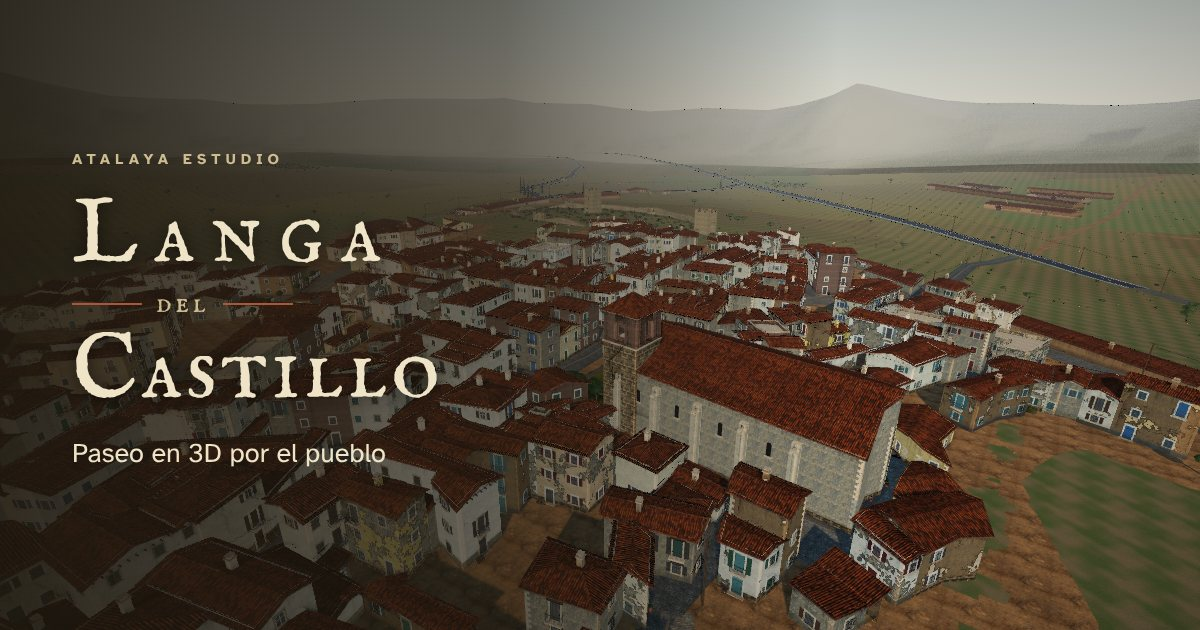
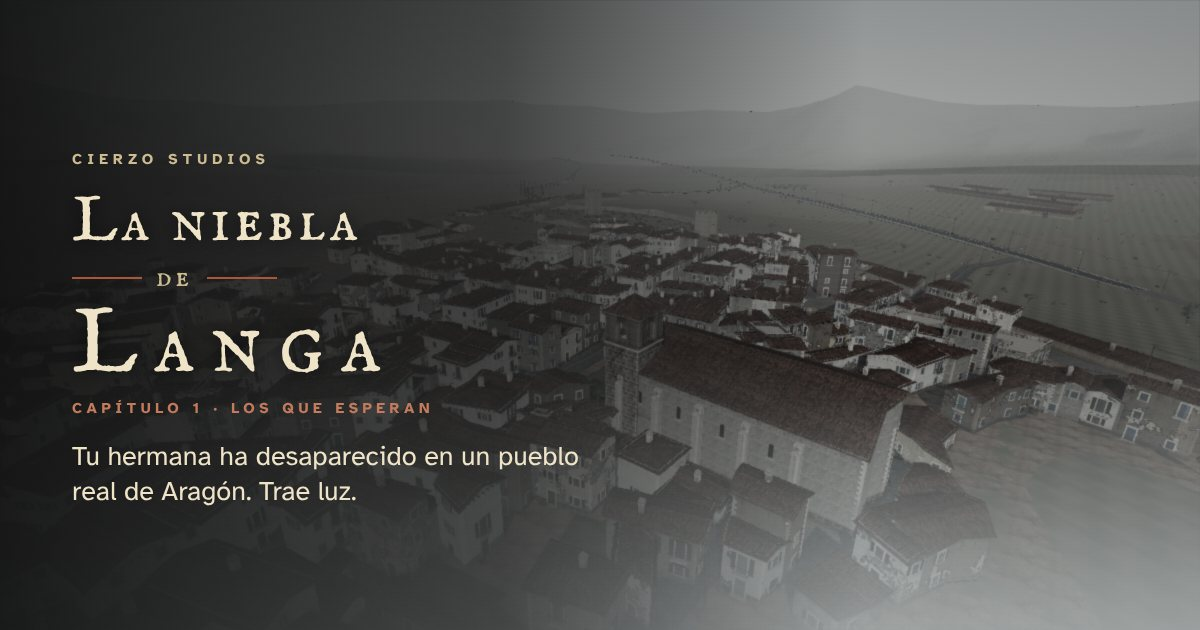
Imagen nueva para compartir el enlace

diff --git a/sw.js b/sw.js
@@ -1,6 +1,6 @@
 // Guarda el juego en el dispositivo: la primera visita lo descarga todo y luego funciona sin conexión.
 // La página se pide primero a la red (para recibir las novedades); datos, texturas, three.js y fuentes, primero a la caché.
-const VERSION='langa-7f96cd68e88d', ARCHIVOS=["./", "index.html", "manifest.webmanifest", "icono-180.png", "icono-192.png", "icono-512.png", "icono-maskable.png", "compartir.jpg", "data/LangaMapData.json", "data/LangaTerrain.json", "data/FacadeColors.json", "data/tex/adobe_a.jpg", "data/tex/adobe_c.jpg", "data/tex/adobe_n.jpg", "data/tex/adoquin_a.jpg", "data/tex/adoquin_c.jpg", "data/tex/adoquin_n.jpg", "data/tex/castillo_a.jpg", "data/tex/castillo_c.jpg", "data/tex/castillo_n.jpg", "data/tex/ladrillo_a.jpg", "data/tex/ladrillo_c.jpg", "data/tex/ladrillo_n.jpg", "data/tex/losas_a.jpg", "data/tex/losas_c.jpg", "data/tex/losas_n.jpg", "data/tex/muro_a.jpg", "data/tex/muro_c.jpg", "data/tex/muro_n.jpg", "data/tex/puerta_a.jpg", "data/tex/puerta_c.jpg", "data/tex/puerta_n.jpg", "data/tex/revoque_a.jpg", "data/tex/revoque_c.jpg", "data/tex/revoque_n.jpg", "data/tex/sillar_a.jpg", "data/tex/sillar_c.jpg", "data/tex/sillar_n.jpg", "data/tex/tablas_a.jpg", "data/tex/tablas_c.jpg", "data/tex/tablas_n.jpg", "data/tex/tejas_a.jpg", "data/tex/tejas_c.jpg", "data/tex/tejas_n.jpg", "data/tex/tierra_a.jpg", "data/tex/tierra_c.jpg", "data/tex/tierra_n.jpg", "data/historia/capitulo1.json", "https://cdn.jsdelivr.net/npm/three@0.160.0/build/three.module.js", "https://cdn.jsdelivr.net/npm/three@0.160.0/examples/jsm/objects/Sky.js", "https://cdn.jsdelivr.net/npm/three@0.160.0/examples/jsm/utils/BufferGeometryUtils.js", "https://cdn.jsdelivr.net/npm/three@0.160.0/examples/jsm/postprocessing/EffectComposer.js", "https://cdn.jsdelivr.net/npm/three@0.160.0/examples/jsm/shaders/CopyShader.js", "https://cdn.jsdelivr.net/npm/three@0.160.0/examples/jsm/postprocessing/ShaderPass.js", "https://cdn.jsdelivr.net/npm/three@0.160.0/examples/jsm/postprocessing/Pass.js", "https://cdn.jsdelivr.net/npm/three@0.160.0/examples/jsm/postprocessing/MaskPass.js", "https://cdn.jsdelivr.net/npm/three@0.160.0/examples/jsm/postprocessing/RenderPass.js", "https://cdn.jsdelivr.net/npm/three@0.160.0/examples/jsm/postprocessing/GTAOPass.js", "https://cdn.jsdelivr.net/npm/three@0.160.0/examples/jsm/shaders/GTAOShader.js", "https://cdn.jsdelivr.net/npm/three@0.160.0/examples/jsm/shaders/PoissonDenoiseShader.js", "https://cdn.jsdelivr.net/npm/three@0.160.0/examples/jsm/math/SimplexNoise.js", "https://cdn.jsdelivr.net/npm/three@0.160.0/examples/jsm/postprocessing/OutputPass.js", "https://cdn.jsdelivr.net/npm/three@0.160.0/examples/jsm/shaders/OutputShader.js", "https://cdn.jsdelivr.net/npm/three@0.160.0/examples/jsm/loaders/GLTFLoader.js", "https://fonts.googleapis.com/css2?family=IM+Fell+English+SC&family=Atkinson+Hyperlegible:wght@400;700&display=swap"];
+const VERSION='langa-6768fddad94c', ARCHIVOS=["./", "index.html", "manifest.webmanifest", "icono-180.png", "icono-192.png", "icono-512.png", "icono-maskable.png", "compartir.jpg", "data/LangaMapData.json", "data/LangaTerrain.json", "data/FacadeColors.json", "data/tex/adobe_a.jpg", "data/tex/adobe_c.jpg", "data/tex/adobe_n.jpg", "data/tex/adoquin_a.jpg", "data/tex/adoquin_c.jpg", "data/tex/adoquin_n.jpg", "data/tex/castillo_a.jpg", "data/tex/castillo_c.jpg", "data/tex/castillo_n.jpg", "data/tex/ladrillo_a.jpg", "data/tex/ladrillo_c.jpg", "data/tex/ladrillo_n.jpg", "data/tex/losas_a.jpg", "data/tex/losas_c.jpg", "data/tex/losas_n.jpg", "data/tex/muro_a.jpg", "data/tex/muro_c.jpg", "data/tex/muro_n.jpg", "data/tex/puerta_a.jpg", "data/tex/puerta_c.jpg", "data/tex/puerta_n.jpg", "data/tex/revoque_a.jpg", "data/tex/revoque_c.jpg", "data/tex/revoque_n.jpg", "data/tex/sillar_a.jpg", "data/tex/sillar_c.jpg", "data/tex/sillar_n.jpg", "data/tex/tablas_a.jpg", "data/tex/tablas_c.jpg", "data/tex/tablas_n.jpg", "data/tex/tejas_a.jpg", "data/tex/tejas_c.jpg", "data/tex/tejas_n.jpg", "data/tex/tierra_a.jpg", "data/tex/tierra_c.jpg", "data/tex/tierra_n.jpg", "data/historia/capitulo1.json", "https://cdn.jsdelivr.net/npm/three@0.160.0/build/three.module.js", "https://cdn.jsdelivr.net/npm/three@0.160.0/examples/jsm/objects/Sky.js", "https://cdn.jsdelivr.net/npm/three@0.160.0/examples/jsm/utils/BufferGeometryUtils.js", "https://cdn.jsdelivr.net/npm/three@0.160.0/examples/jsm/postprocessing/EffectComposer.js", "https://cdn.jsdelivr.net/npm/three@0.160.0/examples/jsm/shaders/CopyShader.js", "https://cdn.jsdelivr.net/npm/three@0.160.0/examples/jsm/postprocessing/ShaderPass.js", "https://cdn.jsdelivr.net/npm/three@0.160.0/examples/jsm/postprocessing/Pass.js", "https://cdn.jsdelivr.net/npm/three@0.160.0/examples/jsm/postprocessing/MaskPass.js", "https://cdn.jsdelivr.net/npm/three@0.160.0/examples/jsm/postprocessing/RenderPass.js", "https://cdn.jsdelivr.net/npm/three@0.160.0/examples/jsm/postprocessing/GTAOPass.js", "https://cdn.jsdelivr.net/npm/three@0.160.0/examples/jsm/shaders/GTAOShader.js", "https://cdn.jsdelivr.net/npm/three@0.160.0/examples/jsm/shaders/PoissonDenoiseShader.js", "https://cdn.jsdelivr.net/npm/three@0.160.0/examples/jsm/math/SimplexNoise.js", "https://cdn.jsdelivr.net/npm/three@0.160.0/examples/jsm/postprocessing/OutputPass.js", "https://cdn.jsdelivr.net/npm/three@0.160.0/examples/jsm/shaders/OutputShader.js", "https://cdn.jsdelivr.net/npm/three@0.160.0/examples/jsm/loaders/GLTFLoader.js", "https://fonts.googleapis.com/css2?family=IM+Fell+English+SC&family=Atkinson+Hyperlegible:wght@400;700&display=swap"];
 self.addEventListener('install',e=>{ self.skipWaiting(); e.waitUntil(caches.open(VERSION).then(c=>Promise.all(ARCHIVOS.map(a=>c.add(a).catch(()=>{}))))); });
 self.addEventListener('activate',e=>{ e.waitUntil(caches.keys().then(ks=>Promise.all(ks.filter(k=>k!==VERSION).map(k=>caches.delete(k)))).then(()=>self.clients.claim())); });
 self.addEventListener('fetch',e=>{ const r=e.request; if(r.method!=='GET') return;
